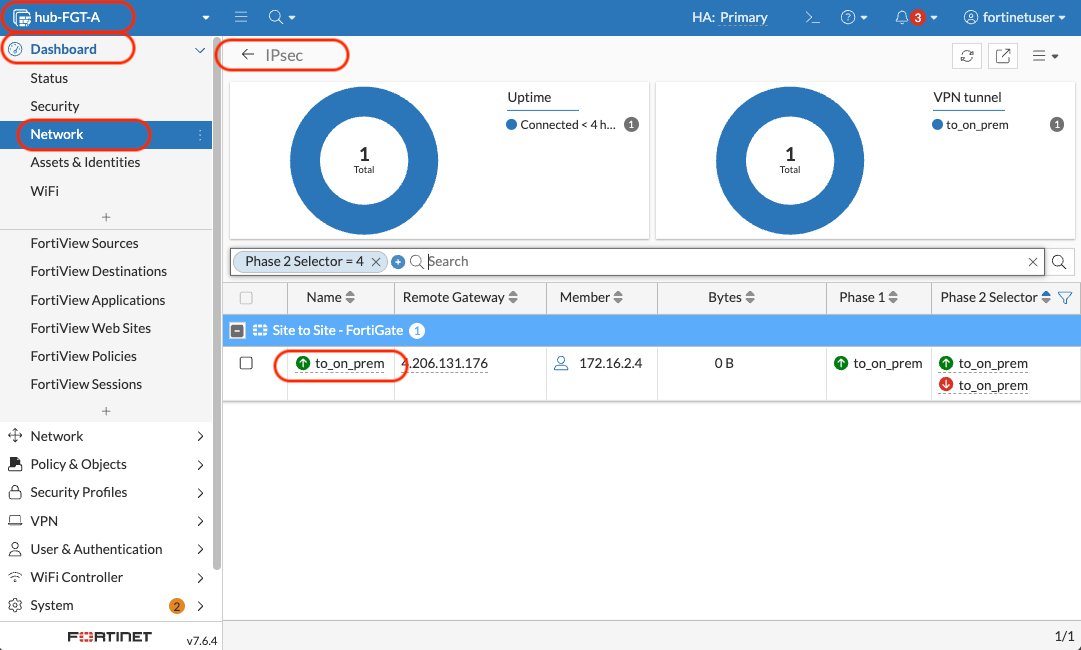
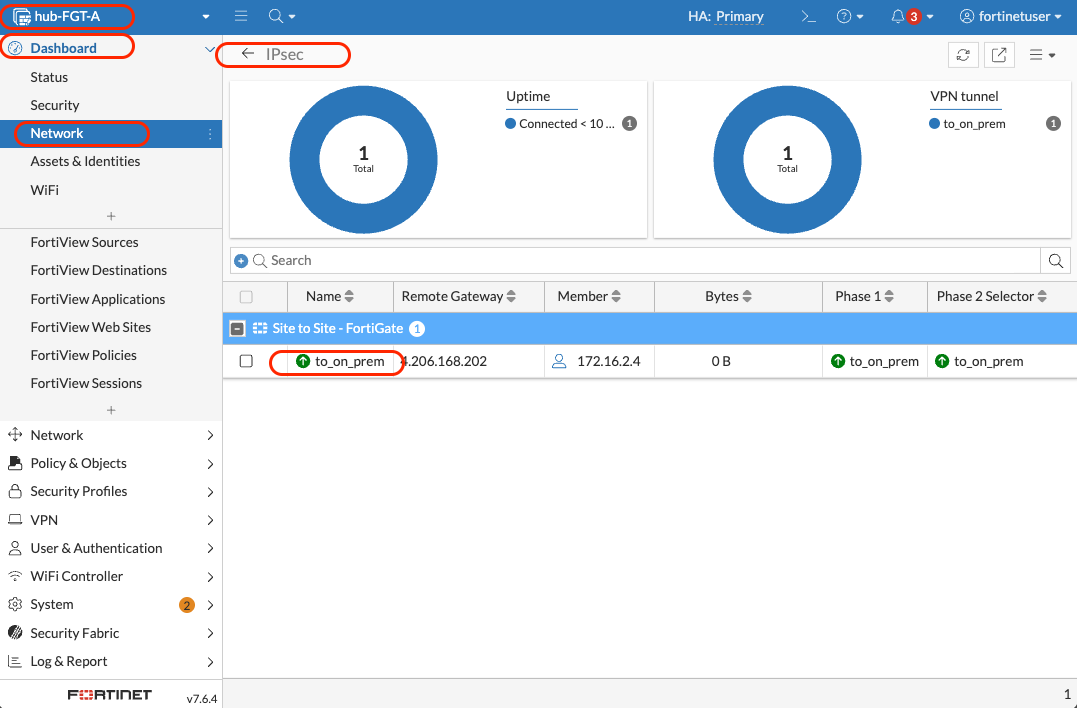
initial vesion

diff --git a/modules/module-09-site-to-site-vpn/README.old.md b/modules/module-09-site-to-site-vpn/README.old.md
@@ -53,7 +53,7 @@ graph LR
 
 | Parameter | On-Premises | Azure Hub |
 |-----------|-------------|-----------|
-| **Local Subnets** | 172.16.0.0/24 | 10.16.0.0/24 |
+| **Local Subnets** | 172.16.4.0/24 | 10.16.0.0/24 |
 | **Public IP** | pip-on-prem-fgt | pip-hub-fgt |
 | **Interface** | port1 (external) | port1 (external) |
 | **Internal Interface** | port2 (internal) | port2 (internal) |
@@ -79,6 +79,39 @@ graph LR
    - **Username**: `fortinetuser`
    - **Password**: Use the password you created before
 
+#### 1.3 Change the HTTPS port for adminstrative access
+
+When creating a VPN on FortiGate, you'll encounter a port conflict that requires changing the administrative access port. Here's how to explain this:
+
+##### The Port Conflict Issue
+
+By default, FortiGate uses port 443 for HTTPS administrative access. However, when you configure an IPsec VPN, the IKE (Internet Key Exchange) protocol also needs to use port 443 for TCP connections in certain scenarios (like when traversing NAT devices or firewalls that block UDP 500/4500).
+
+##### Why You Must Change the Admin Port 
+
+Since both services cannot share the same port on the same interface, you have two options:
+
+- Change the administrative HTTPS port to something else (recommended)
+- Use a different port for IKE TCP (less common)
+
+For this bootcamp, let's change the port for administrative access in the FortiGate.
+
+1. Navigate to System Settings
+
+   - **Go to System > Settings**
+   - **HTTPS port**: `8443`
+
+2. Click on **`Apply`**
+
+   ![change-https-port.screenshot](images/1.3-port-change.png)
+
+   The system will prompt you that the change requires reconnection
+
+3. Reconnect to FortiGate
+
+   Your current session will be disconnected
+   Reconnect using the new URL: https://pip-on-prem-fgt:new-port
+
 ---
 
 ### Step 2: Get Azure FortiGate Public IP
@@ -99,7 +132,6 @@ graph LR
 ### Step 3: Create VPN on On-Premises FortiGate
 
 #### 3.1 Start VPN Wizard
-
 1. In on-premises FortiGate, navigate to **VPN** → **VPN Wizard**
 2. Configure VPN Setup:
    - **Tunnel name**: `to_azure_hub`
@@ -109,12 +141,12 @@ graph LR
 ![vnp-wizard-site-to-site-begin.screenshot](images/3.1-vpn-wizard-begin.png)
 
 #### 3.2 Configure VPN Tunnel
-
 1. **VPN Tunnel** settings:
    - **Authentication Method**: `Pre-shared Key`
    - **Pre-shared Key**: `FortinetBootcamp2025!`
    - **IKE**: `Version 2`
-   - **Transport**: `UDP`
+   - **Transport**: `Auto`
+   - **Use Fortinet encapsulation**: `Disabled`
    - **NAT traversal**: `Enable`
    - **Keepalive frequency**: `10`
 2. Click **"Next"**
@@ -122,19 +154,17 @@ graph LR
 ![vpn-wizard-vpn-tunnel.screenshot](images/3.2-vpn-wizard-tunnel.png)
 
 #### 3.3 Configure Remote Site
-
 1. **Remote Site** configuration:
    - **Remote site device type**: `FortiGate` (Logo)
    - **Remote site device**: `Accessible and static`
    - **IP address**: `[Azure-FortiGate-Public-IP]` (from Step 2.1)
    - **Route this device's internet traffic through the remote site.**: `Disable`
-   - **Remote site subnets**: `10.16.0.0/16`
+   - **Remote site subnets**: `192.168.1.0/24`, `192.168.2.0/24`, `10.16.0.0/16`
 2. Click **"Next"**
 
 ![vpn-wizard-remote-site.screenshot](images/3.3-vpn-wizard-remote-site.png)
 
 #### 3.4 Configure Local Site
-
 1. **Local Site** configuration:
    - **Outgoing interface**: `port1` (external interface)
    - **Create and add interface to zone**: `Disabled`
@@ -145,14 +175,7 @@ graph LR
 
 ![vpn-wizard-local-site.screenshot](images/3.4-vpn-wizard-local-site.png)
 
-> [!WARNING]
-> Administrative access on port1 will no longer be available because IKE TCP and HTTPS are configured to use the same port (443).  
-> We will use an ssh connection to change the IKE TCP port configuration and restablish Administrative access.
->
-> Because we are using UDP as transport, the IKE TCP configuration will not be created?
-
 #### 3.5 Review and Submit
-
 1. Review all configurations
 2. Click **"Submit"**
 
@@ -163,19 +186,22 @@ graph LR
 ### Step 4: Access Azure FortiGate
 
 #### 4.1 Connect to Active FortiGate
-
 1. Navigate to **`rg-hub-bootcamp`**
 2. Click on **`pip-hub-fgt-a-mgmt`**
 3. Copy the **IP address**
 4. Open browser: `https://[azure-fortigate-mgmt-ip]`
 5. Login with same credentials
 
+> [!IMPORTANT]
+> Change the HTTPS administrative port on the hub FortiGates to 8443 as well. See Step 1.3, in case of doubt.
+
+![hub-fgt-https-port-change.screenshot](images/4.1-hub-fgt-https-port-change.png)
+
 ---
 
 ### Step 5: Create VPN on Azure FortiGate
 
 #### 5.1 Start VPN Wizard
-
 1. Navigate to **VPN** → **VPN Wizard**
 2. Configure VPN Setup:
    - **Tunnel name**: `to_on_prem`
@@ -185,12 +211,12 @@ graph LR
 ![vnp-wizard-site-to-site-begin.screenshot](images/5.1-vpn-wizard-begin.png)
 
 #### 5.2 Configure VPN Tunnel
-
 1. **VPN Tunnel** settings:
    - **Authentication Method**: `Pre-shared Key`
    - **Pre-shared Key**: `FortinetBootcamp2025!` (must match on-premises)
    - **IKE**: `Version 2`
-   - **Transport**: `UDP`
+   - **Transport**: `Auto`
+   - **Use Fortinet encapsulation**: `Disabled`
    - **NAT traversal**: `Enable`
    - **Keepalive frequency**: `10`
 2. Click **"Next"**
@@ -198,7 +224,6 @@ graph LR
 ![vpn-wizard-vpn-tunnel.screenshot](images/5.2-vpn-wizard-tunnel.png)
 
 #### 5.3 Configure Remote Site
-
 1. **Remote Site** configuration:
    - **Remote site device type**: `FortiGate`
    - **Remote site device**: `Accessible and static`
@@ -210,19 +235,17 @@ graph LR
 ![vpn-wizard-remote-site.screenshot](images/5.3-vpn-wizard-remote-site.png)
 
 #### 5.4 Configure Local Site
-
 1. **Local Site** configuration:
    - **Outgoing interface**: `port1` (external interface)
    - **Create and add interface to zone**: `Disabled`
    - **Local Interface**: `port2` (internal interface)
-   - **Local subnets**: `10.16.0.0/16`
+   - **Local subnets**: `192.168.1.0/24`, `192.168.2.0/24`, `10.16.0.0/16`
    - **Allow remote site's internet traffic**: `Disabled`
 2. Click **"Next"**
 
 ![vpn-wizard-local-site.screenshot](images/5.4-vpn-wizard-local-site.png)
 
 #### 5.5 Review and Submit
-
 1. Review all configurations
 2. Click **"Submit"**
 
@@ -233,7 +256,6 @@ graph LR
 ### Step 6: Check VPN Status
 
 #### 6.1 Verify On-Premises Tunnel
-
 1. In on-premises FortiGate, navigate to **Dashboard** → **Network**
 2. Open the **IPsec** widget
 3. Look for tunnel `to_azure_hub` - status should show **"Up"**
@@ -241,7 +263,6 @@ graph LR
 ![verify-vpn-dashboard-on-prem.screenshot](images/6.1-verify-dashboard.png)
 
 **CLI Verification:**
-
 ```bash
 diagnose vpn ike gateway list name to_azure_hub
 ```
@@ -249,7 +270,6 @@ diagnose vpn ike gateway list name to_azure_hub
 ![verify-vpn-cli-on-prem.screenshot](images/6.1-verify-cli.png)
 
 #### 6.2 Verify Azure Tunnel
-
 1. In Azure FortiGate, navigate to **Dashboard** → **Network**
 2. Open the **IPsec** widget
 3. Look for tunnel `to_on_prem` - status should show **"Up"**
@@ -257,12 +277,11 @@ diagnose vpn ike gateway list name to_azure_hub
 ![verify-vpn-dashboard-azure.screenshot](images/6.2-verify-dashboard.png)
 
 **CLI Verification:**
-
 ```bash
 diagnose vpn ike gateway list name to_on_prem
 ```
 
-![verify-vpn-cli-azure.screenshot](images/6.2-verify-cli.png)
+![verify-vpn-cli-azure.screenshot](images/6.2-verify-dashboard.png)
 
 > [!TIP]
 > If tunnels show "Down", wait 2-3 minutes for negotiation to complete. Check that public IPs and pre-shared keys match exactly.
@@ -272,29 +291,19 @@ diagnose vpn ike gateway list name to_on_prem
 ### Step 7: Test Cross-Site Connectivity
 
 #### 7.1 Test On-Premises to Azure
-
 1. Connect to **`vm-on-prem-windows`** via Bastion
-2. Open Windows PowerShell prompt
+2. Open Command Prompt
 3. Test connectivity:
-
    ```cmd
-   Test-NetConnection -ComputerName 10.16.6.4 -Port 3389
+   ssh azureuser@192.168.1.4
    ```
-
-![connectivity-test.screenshot](images/7.1-connectivity-test.png)
 
 **Expected Result**: Should work if VPN tunnel is established
 
 #### 7.2 Test Azure to On-Premises
-
 1. Connect to **`vm-hub-jumpbox`** via Bastion
 2. From RDP Client, test to on-premises: 172.16.4.4
-
-   ```cmd
-   Test-NetConnection -ComputerName 10.16.6.4 -Port 3389
    ```
-
-![connectivity-test.screenshot](images/7.2-connectivity-test.png)
 
 **Expected Result**: Should work through VPN tunnel
 
@@ -305,20 +314,17 @@ diagnose vpn ike gateway list name to_on_prem
 Before proceeding to the next module, verify you have completed:
 
 **VPN Configuration:**
-
 - [ ] Created VPN tunnel on on-premises FortiGate (`to_azure_hub`)
 - [ ] Created VPN tunnel on Azure FortiGate (`to_on_prem`)
 - [ ] Both tunnels show "Up" status in IPsec widget
 - [ ] Pre-shared keys match on both sides
 
 **Connectivity Testing:**
-
 - [ ] Successfully pinged Azure Spoke1 VMs from on-premises
 - [ ] Successfully pinged on-premises VM from Azure hub
 - [ ] VPN tunnel traffic visible in FortiGate logs
 
 **Network Integration:**
-
 - [ ] VPN policies created automatically by wizard
 - [ ] Static routes configured for remote subnets
 - [ ] Address objects created for local and remote networks
@@ -329,33 +335,88 @@ Before proceeding to the next module, verify you have completed:
 
 After completing this module, your hybrid network should look like this:
 
-![archtecture-review.screenshot](images/architecture-review-mod9.png)
+```mermaid
+graph TB
+    subgraph "On-Premises (172.16.0.0/16)"
+        subgraph "rg-on-prem-bootcamp"
+            ONPREMFGT[on-prem-FGT]
+            ONPREMWIN[vm-on-prem-windows<br/>172.16.4.4]
+            PIPONPREM[pip-on-prem-fgt]
+        end
+    end
+    
+    subgraph "Internet"
+        WEB((Internet))
+        VPN[IPSec VPN Tunnel<br/>IKEv2 + PSK]
+    end
+    
+    subgraph "Azure Hub (10.16.0.0/16)"
+        subgraph "rg-hub-bootcamp"
+            AZFGTA[FortiGate A]
+            AZFGTB[FortiGate B]
+            HUBVM[vm-hub-jumpbox<br/>10.16.6.4]
+            PIPAZ[pip-hub-fgt]
+        end
+    end
+    
+    subgraph "Azure Spoke1 (192.168.1.0/24)"
+        VM1A[vm-spoke1a<br/>192.168.1.4]
+        VM1B[vm-spoke1b<br/>192.168.1.5]
+    end
+    
+    subgraph "Azure Spoke2 (192.168.2.0/24)"
+        VM2A[vm-spoke2a<br/>192.168.2.4]
+    end
+    
+    %% VPN connections
+    PIPONPREM --> VPN
+    VPN --> PIPAZ
+    VPN -.->|Encrypted| ONPREMFGT
+    VPN -.->|Encrypted| AZFGTA
+    VPN -.->|Encrypted| AZFGTB
+    
+    %% Local connections
+    ONPREMFGT --- ONPREMWIN
+    AZFGTA --- HUBVM
+    AZFGTB --- HUBVM
+    HUBVM <--> VM1A
+    HUBVM <--> VM1B
+    HUBVM <--> VM2A
+    
+    %% Cross-site connectivity through VPN
+    ONPREMWIN <-.->|Through VPN| VM1A
+    ONPREMWIN <-.->|Through VPN| VM1B
+    
+    style ONPREMFGT fill:#ff6b6b
+    style AZFGTA fill:#ff6b6b
+    style AZFGTB fill:#ff6b6b
+    style VPN fill:#4CAF50
+```
+
+**Legend:**
+- **Solid lines**: Direct network connections
+- **Dotted lines**: VPN-encrypted traffic
+- **Green tunnel**: Secure IPSec VPN connection
 
 ---
 
 ## Troubleshooting Common Issues
 
 ### Issue: VPN tunnel won't establish
-
 **Solution:**
-
 - Verify public IP addresses are correct on both sides
 - Check pre-shared key matches exactly (case-sensitive)
 - Ensure NAT traversal is enabled
 - Verify FortiGates can reach each other's public IPs
 
 ### Issue: Tunnel is up but traffic doesn't flow
-
 **Solution:**
-
 - Check firewall policies allow VPN traffic
 - Verify static routes are configured correctly
 - Ensure local and remote subnet configurations match
 
 ### Issue: Only one direction works
-
 **Solution:**
-
 - Check that both sides have matching Phase1 and Phase2 settings
 - Verify firewall policies exist for both directions
 
@@ -363,8 +424,8 @@ After completing this module, your hybrid network should look like this:
 
 ## Next Steps
 
-Once you've completed this module and verified VPN connectivity, you're ready to proceed to [**Module 10 - FortiAnalyzer Deployment: Centralized Logging and Analytics**](/modules/module-10-fortianalyzer/README.md)
+Once you've completed this module and verified VPN connectivity, you're ready to proceed to **Module 10: FortiAnalyzer and FortiManager Deployment**.
 
-In Module 10, we'll deploy FortiAnalyzer for centralized logging and analytics from all FortiGate devices.
+In Module 10, we'll deploy centralized logging and management components to complete the Fortinet Security Fabric.
 
 **Estimated completion time**: 30-35 minutes
